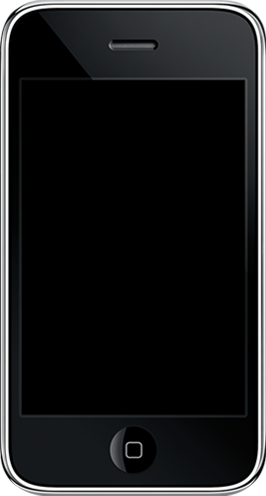
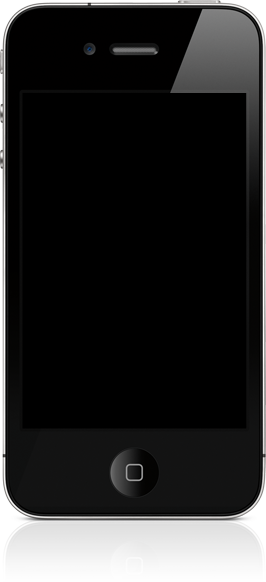
Bug fixes and facelift
Fixes:
	Errors in case of an empty array
	Bottom widgets displaying
	jQuery images slideshow

Added:
	New, updated pictures
	Better fonts
	Social buttons

And probably even something more

Changed region(s): [[0.0, 0.0, 1.0, 1.0]]

diff --git a/style.css b/style.css
@@ -50,7 +50,7 @@ li {
  }
 .header a {
 	color: white;
-	font-family: Times New Roman;
+	font-family: Myriad Pro, Helvetica;
 	font-size: 54px;
 	text-decoration: none;
  }
@@ -208,7 +208,6 @@ li {
 	padding-top: 4px;
 	padding-right: 30px;
 	text-align: right;
-	width: 80px;
  }
 .widgets_left .summary {
 	color: #333333;
@@ -224,6 +223,7 @@ li {
 	text-transform: none;
  }
 .widgets_left .post {
+	width: 450px;
 	border-bottom: 1px dashed #d8d9da;
 	margin-bottom: 12px;
 	margin-left: 95px;
@@ -270,7 +270,7 @@ h1,h2,h3,h4,h5 {
  }
 .content_body h2 {
 	color: #2b4a65;
-	font-family: Times New Roman;
+	font-family: Myriad Pro, Helvetica;
 	font-size: 41px;
 	font-weight: normal;
 	left: 2px;
@@ -303,7 +303,7 @@ h1,h2,h3,h4,h5 {
  }
 .layout_vert .iphone_bg {
 	background-image: url('images/iphone_vert.png');
-	height: 496px;
+	height: 582px;
  }
 .layout_vert .iphone_padding {
 	padding-left: 21px;
@@ -342,6 +342,29 @@ h1,h2,h3,h4,h5 {
 	margin: 8px auto;
 	width: 890px;
  }
-#slider li {
+
+#slider {
+	position: relative;
+	top: 12px;
+	left: 2px;
+}
+
+#slider img {
 	position: absolute;
+	top: 0px;
+	left: 0px;
+	z-index:8;
  }
+
+#slider img.active {
+    z-index:10;
+}
+
+#slider img.last-active {
+    z-index:9;
+}
+
+#social {
+	position: relative;
+	top: 30px;
+}

diff --git a/javascript/rt_slideshow.js b/javascript/rt_slideshow.js
@@ -2,13 +2,13 @@
       jQuery(document).ready(function() {
 		var timer = setInterval(nextImage, 4000);
 
-		var total = jQuery('#slider li').size() - 1;
-		jQuery('#slider li').each(function(index) {
+		var total = jQuery('#slider img').size() - 1;
+		jQuery('#slider img').each(function(index) {
 			jQuery(this).css('z-index',index);
 		});
 		function nextImage(){		
 			alert
-			jQuery('#slider li').each(function(index) {
+			jQuery('#slider img').each(function(index) {
 				var ind = parseInt(jQuery(this).css('z-index'));
 				jQuery(this).css('z-index',ind+1);
 				if (jQuery(this).css('z-index') > total){

diff --git a/functions.php b/functions.php
@@ -254,13 +254,6 @@ function rt_post_uploadbox() {
 	</p>
 	<?php
 }
-
-
-
-
-
-
-
 //DISPLAY FUNCTIONS
 function rt_render_appicon(){
     $options = get_option('rt_icon');
@@ -282,9 +275,11 @@ function rt_render_slider() {
     $existing = array();
 	$existing = get_option('rt_screens');
 	echo "<div id='slider' class='".get_option("rt_apporient")."'><ul>";
-	foreach ($existing as $value) {
-		if (!$value['error']){
-			echo "<li><img src='{$value['url']}' /></li";
+	if (!empty($existing)) {
+		foreach ($existing as $value) {
+			if (!$value['error']){
+				echo "<li><img src='{$value['url']}' /></li";
+			}
 		}
 	}
 	echo "</ul></div>";
@@ -292,9 +287,11 @@ function rt_render_slider() {
 function rt_render_testimonials() {
     $existing = array();
 	$existing = get_option('rt_testimonial');
-	$value = $existing[array_rand($existing, 1)];
-	echo '<div class="rt_testimonial_text">"'.$value["text"].'"</div>';
-	echo '<div class="rt_testimonial_src"> - '.$value["source"].'</div>';
+	if (!empty($existing)) {
+		$value = $existing[array_rand($existing, 1)];
+		echo '<div class="rt_testimonial_text">"'.$value["text"].'"</div>';
+		echo '<div class="rt_testimonial_src"> - '.$value["source"].'</div>';
+	}
 }
 function rt_preview_screens() {
     $existing = array();
@@ -308,11 +305,13 @@ function rt_preview_screens() {
 }function rt_preview_testimonials() {
     $existing = array();
 	$existing = get_option('rt_testimonial');
-	foreach ($existing as $value) {
-		echo '<tr valign="top">';
-		echo '<th scope="row">'.$value["source"].'</th>';
-		echo '<td>'.$value["text"].'<div><a href="admin.php?page='.$_GET['page'].'&tdelete='.$value['hash'].'">Delete</a></div></td>';
-		echo '</tr>';
+	if (!empty($existing)) {
+		foreach ($existing as $value) {
+			echo '<tr valign="top">';
+			echo '<th scope="row">'.$value["source"].'</th>';
+			echo '<td>'.$value["text"].'<div><a href="admin.php?page='.$_GET['page'].'&tdelete='.$value['hash'].'">Delete</a></div></td>';
+			echo '</tr>';
+		}
 	}
 }
 //VALIDATION FUNCTIONS
@@ -328,10 +327,9 @@ function rt_validate_testimonial($input) {
 		$testimonials = array();
 	}
 	array_push($testimonials, $new);
-	var_dump($input);
+	//var_dump($input);
 	return $testimonials;
 }
-
 
 function rt_upload_validate($input,$optname = 'rt_icon') {
     $newinput = array();
@@ -597,6 +595,4 @@ function rt_options_testimonials() {
 }
 
 add_action('wp_head', 'rt_head');
-
-
 ?>

diff --git a/includes/widgets.php b/includes/widgets.php
@@ -23,7 +23,7 @@ function rt_widget_posts()
 	?>
 
 				
-				<div class="post_thumb"><img src="<?php echo get_post_meta($post->ID, 'rt_thumb', TRUE); ?>"</div>
+				<!--<div class="post_thumb"><img src="<?//php echo get_post_meta($post->ID, 'rt_thumb', TRUE); ?>"</div>-->
 				<div <?php post_class() ?> id="post-<?php the_ID(); ?>">
 					<h3><a href="<?php the_permalink() ?>" rel="bookmark"><?php the_title(); ?></a></h3>
 					<div class="summary">
@@ -69,14 +69,12 @@ function rt_widget_posts_control(){
 }
 function rt_widgets_init()
 {
-	wp_register_sidebar_widget("rt_widget_testimonials","RawApps Testimonials", 'rt_widget_testimonials');
-	wp_register_sidebar_widget("rt_widget_posts","RawApps Posts", 'rt_widget_posts');
-	wp_register_widget_control("rt_widget_posts","RawApps Posts", 'rt_widget_posts_control');
+	wp_register_sidebar_widget("rt_widget_testimonials","RawApps Testimonials (Right Sidebar)", 'rt_widget_testimonials');
+	wp_register_sidebar_widget("rt_widget_posts","RawApps Posts (Left Sidebar)", 'rt_widget_posts');
+	wp_register_widget_control("rt_widget_posts","RawApps Posts (Left Sidebar)", 'rt_widget_posts_control');
 
 }
 
 add_action("init", "rt_widgets_init");
 
 ?>
-
-

diff --git a/index.php b/index.php
@@ -24,6 +24,10 @@ get_header();
 				<div class="appstore">
 					<a href="<?php echo get_option('rt_ituneslink'); ?>"><img src="<?php echo get_bloginfo('template_directory'); ?>/images/rt_appstorelink.png"></a>
 				</div>
+				<div id="social">
+					<a href="http://twitter.com/share" class="twitter-share-button" data-count="horizontal" data-via="dominikkrejcik">Tweet</a><script type="text/javascript" src="http://platform.twitter.com/widgets.js"></script>
+					<iframe src="http://www.facebook.com/plugins/like.php?app_id=142549539162044&amp;href=<?php echo rawurlencode('http://' . $_SERVER['HTTP_HOST'] . $_SERVER['REQUEST_URI']); ?>&amp;send=false&amp;layout=button_count&amp;width=300&amp;show_faces=false&amp;action=like&amp;colorscheme=light&amp;font&amp;height=21" scrolling="no" frameborder="0" style="border:none; overflow:hidden; width:300px; height:21px; position: relative; top: 1px;" allowTransparency="true"></iframe>
+				</div>
 				<div style="clear:both;height:0px;"><!----></div>
 			</div>
 

diff --git a/includes/functions.php b/includes/functions.php
@@ -1,2 +1,3 @@
 <?php
[1 lines of base64/hex data omitted]
 ?>

diff --git a/includes/rt_slider.php b/includes/rt_slider.php
@@ -1,21 +1,16 @@
 <?php
- 
-
- 
- 
 function rtslider_render_slider($args)
 {	
     $existing = array();
 	$existing = get_option('apptheme_screens');
-	echo "<div id='slider' class='".get_option("apptheme_apporient")."'><ul>";
-	foreach ($existing as $value) {
-		if (!$value['error']){
-			echo "<li><img src='{$value['url']}' /></li";
+	echo "<div id='slider' class='".get_option("apptheme_apporient")."'>";
+	if (!empty($existing)) {
+		foreach ($existing as $value) {
+			if (!$value['error']){
+				echo "<img src='{$value['url']}'  class=active/>";
+			}
 		}
 	}
-	echo "</ul></div>";
+	echo "</div>";
 }
-
-
-
 ?>
